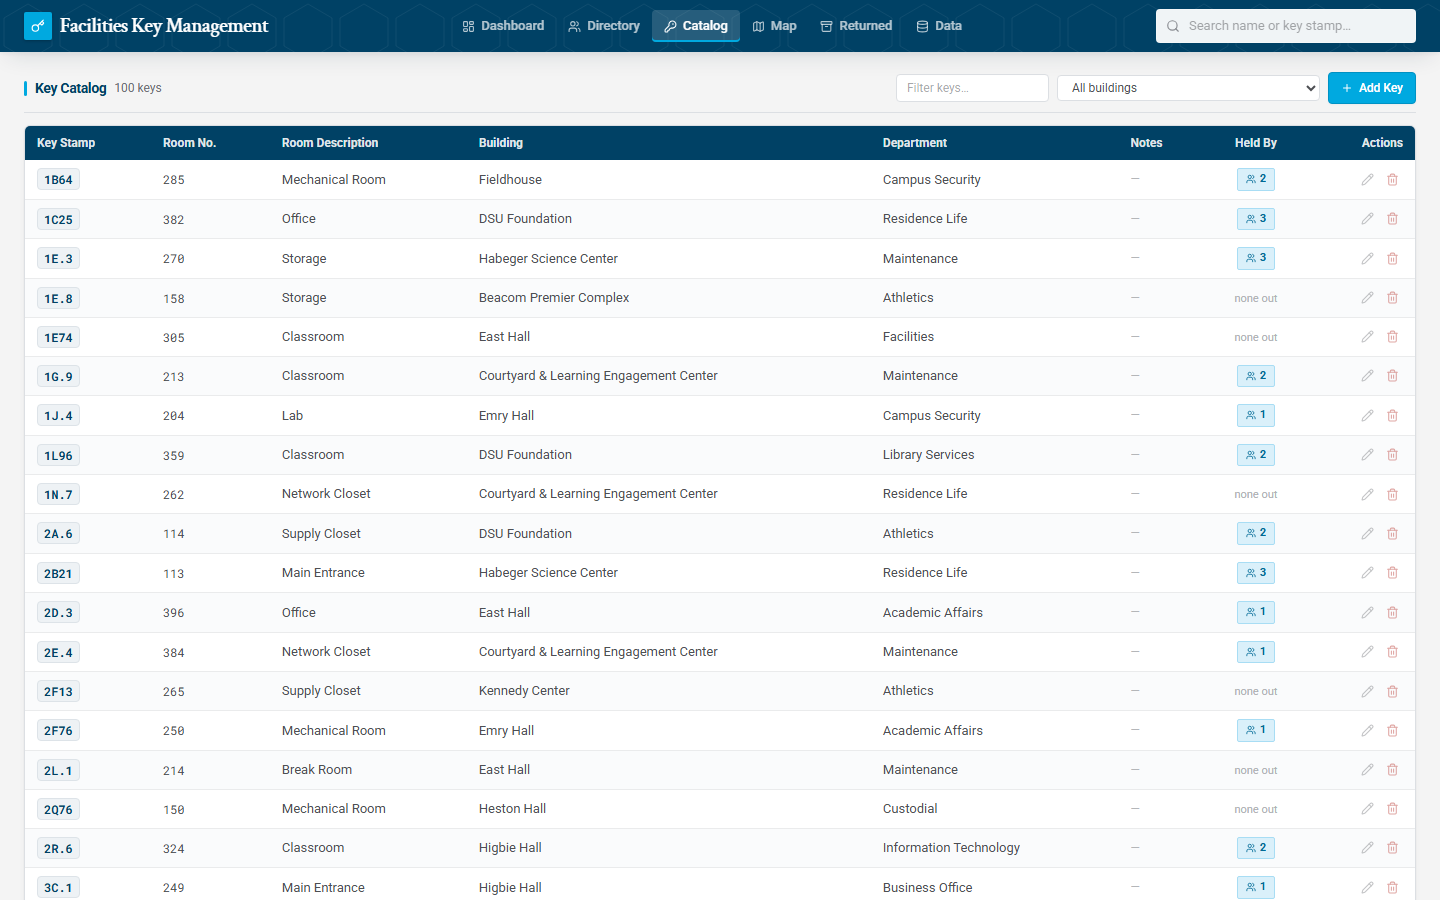
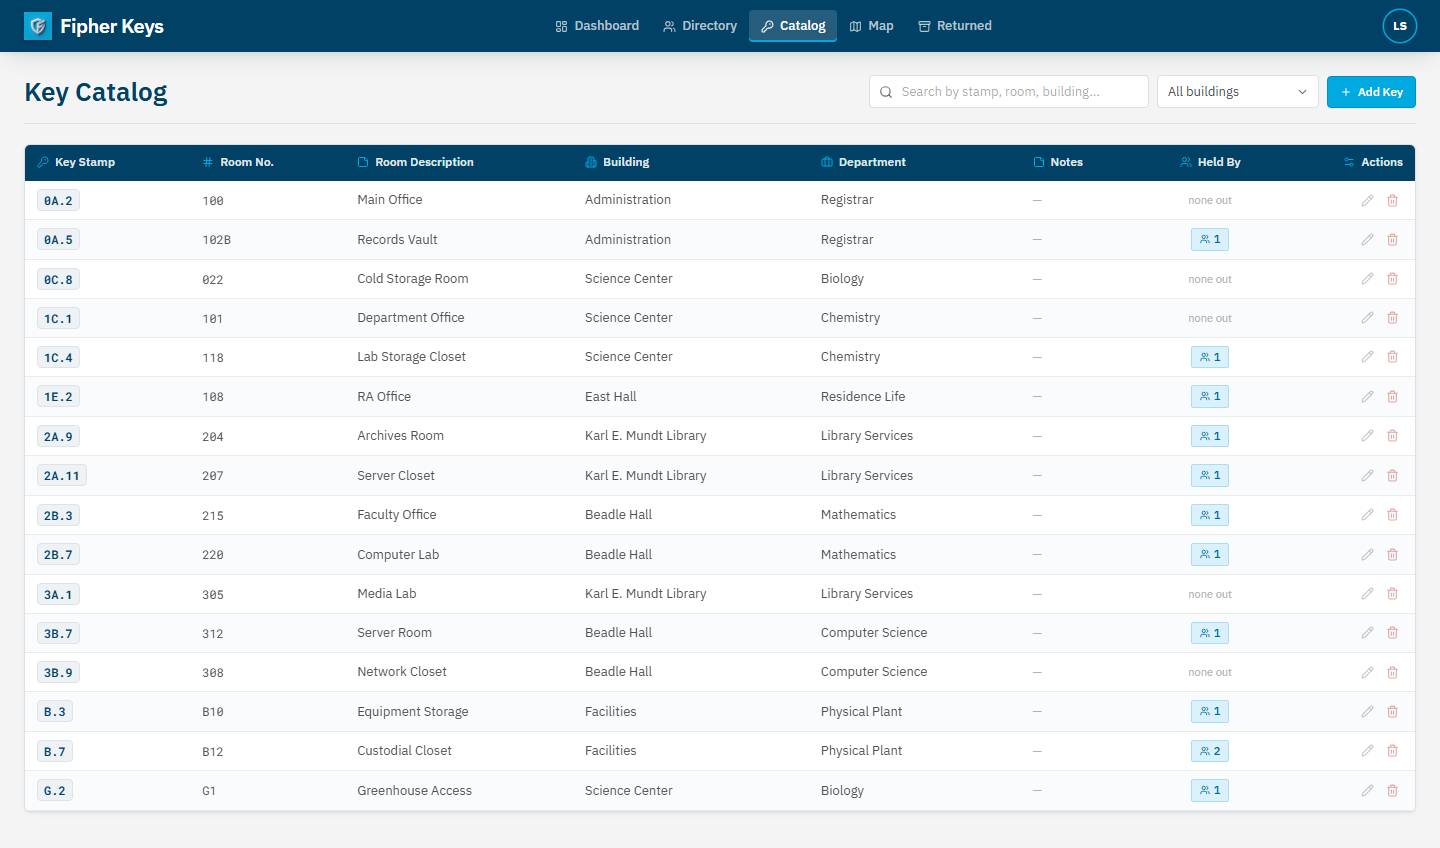
Update README and screenshots to reflect current app
- Refresh dashboard/directory/catalog/map/person/returned screenshots
- Add landing page, login page, issue-key, return-key, add-person, and
  add-key screenshots
- Rewrite feature descriptions: landing/login pages, organizations and
  access codes, PDF OCR upload, person categories, and the rebuilt Excel
  export format
- Update Supabase setup steps for the full migration set (0001-0010)

diff --git a/README.md b/README.md
@@ -1,8 +1,8 @@
-# Facilities Key Management
+# Fipher Keys
 
 An internal tool for Facilities to keep track of physical keys — who's holding what, which building it belongs to, and when it went out or came back. It replaces the hand-maintained key spreadsheet with something searchable that also shows the whole campus on a map.
 
-By default everything runs in the browser (data lives in `localStorage`), so you can try it without any setup. Point it at a Supabase project and it becomes a shared, logged-in app backed by Postgres instead.
+By default everything runs in the browser (data lives in `localStorage`), so you can try it without any setup. Point it at a Supabase project and it becomes a shared, multi-organization app with logins, access-code self-registration, and a platform admin console.
 
 ![Dashboard](docs/screenshots/dashboard.png)
 
@@ -17,48 +17,72 @@ With no `.env` present it uses browser storage and skips the login entirely, whi
 
 ## Sample data
 
-There's a test spreadsheet at [`samples/DSU-Test-Data.xlsx`](samples/DSU-Test-Data.xlsx): 100 key checkouts spread across 60 people, using the actual DSU building names so the map has something to show. Load it from the Data tab (Import) and you'll get a populated dashboard, directory, catalog, and map to explore.
+There's a test spreadsheet at [`samples/DSU-Test-Data.xlsx`](samples/DSU-Test-Data.xlsx): 100 key checkouts spread across 60 people, using the actual DSU building names so the map has something to show. Load it from Settings → Import (or the Data page in local mode) and you'll get a populated dashboard, directory, catalog, and map to explore.
 
 Importing replaces whatever's currently stored, so don't run it against real data you want to keep.
 
 ## What's in it
 
-**Dashboard.** The first thing you land on. It leads with how many keys are out right now, a few supporting counts (holders, catalog size, buildings, returned), and a search box. The Issue Key and Return Key buttons are here, and below that a Recent Activity feed of the latest checkouts and returns. Everything links through to the person or key it mentions.
+**Landing page.** A public marketing page at `/landing` — the pitch, a live-styled screenshot stack, a features grid, a walkthrough of the core workflows, and a contact form that routes straight into requesting an access code for your organization.
 
-**Map.** The campus map with a marker on each building. Buildings that currently have keys out show a count; hovering highlights the outline, and clicking opens the list of keys assigned there. The panel on the right ranks buildings by how many keys are out — hover a row and it lights up on the map. You can pan, zoom, and search from here too.
+![Landing page](docs/screenshots/landing.png)
+
+**Login / registration.** A full-bleed split page: sign in on the left, a preview of the product on the right. Creating an account asks for an organization access code, so only people who've been given one can join; the copy and headline change depending on whether you're signing in or registering.
+
+![Login page](docs/screenshots/login.png)
+
+**Dashboard.** The first thing you land on after signing in. It leads with how many keys are out right now, a few supporting counts (holders, catalog size, buildings, returned — each one click-through to that page), and a search box. Issue Key and Return Key are right here, plus a two-column breakdown (by building and by department) and a recent activity feed of the latest checkouts and returns.
+
+**Map.** The campus map with a marker on each building. Buildings that currently have keys out show a count; hovering highlights the outline, and clicking opens the list of keys assigned there. The panel on the right ranks buildings by how many keys are out — hover a row and it lights up on the map. You can pan, zoom, and search from here too, and (for admins) drag buildings into position.
 
 ![Campus map](docs/screenshots/map.png)
 
-**Directory and Catalog.** The Directory is one row per person; expand a row to see the keys they're holding, and sort or filter by name, department, or building. The Catalog is the same idea for keys — every distinct stamp, its room and building, and how many copies are out.
+**Directory and Catalog.** The Directory is one row per person; expand a row to see the keys they're holding, and filter by building, department, or holding-keys status. The Catalog is the same idea for keys — every distinct stamp, its room and building, who's holding it right now, and how many copies are out.
 
 ![Directory](docs/screenshots/directory.png)
 
-**Detail pages.** Click a name or a key stamp to open its page. A person's page shows their info, what they're holding now, and their history; a key's page shows who has it and who had it before. The two link back and forth, so you can follow a chain from a person to a key to whoever else holds that key.
+![Key catalog](docs/screenshots/catalog.png)
+
+**Detail pages.** Click a name or a key stamp to open its page. A person's page shows their info, what they're holding now, and their return history; a key's page shows who has it and who had it before. The two link back and forth, so you can follow a chain from a person to a key to whoever else holds that key.
 
 ![Person page](docs/screenshots/person-detail.png)
 
-**Issuing and returning.** Issuing a key is a single dialog — search for the person and the key (and create either one inline if it's new), set the date, done. Returning finds an open checkout and marks it returned with a date; it keeps the record rather than deleting it, so history stays intact. Returned keys drop out of the everyday lists into their own Returned tab.
+**Issuing and returning.** Issuing a key is a single dialog — search for the person and the key (or create either one inline if it's new, including which roster/category a new person belongs to), set the date, done. You can issue several keys to one person in the same visit, or upload a request form as a PDF and let it fill the fields in for you (OCR kicks in automatically for scanned or handwritten forms).
 
-**Excel in and out.** It reads the existing key spreadsheets directly: every sheet in the workbook, matching columns by their headings, including split First/Last name columns and the combined room column. You get a per-sheet summary before anything is written. Export gives you a workbook you can re-import later.
+![Issue Key](docs/screenshots/issue-key.png)
 
-![Data tab](docs/screenshots/data.png)
+Returning finds an open checkout by person, stamp, or room and marks it returned with a date — or upload a return form the same way. It keeps the record rather than deleting it, so history stays intact; returned keys drop out of the everyday lists into their own Returned tab.
+
+![Return Key](docs/screenshots/return-key.png)
+![Returned tab](docs/screenshots/returned.png)
+
+Adding a person or a key directly is just as quick, with type-ahead building/department fields that suggest existing values or let you add a new one on the spot.
+
+![Add Person](docs/screenshots/add-person.png)
+![Add Key](docs/screenshots/add-key.png)
+
+**Excel in and out.** It reads the existing key spreadsheets directly: every sheet in the workbook, matching columns by their headings, including split First/Last name columns and the combined room column. You get a per-sheet summary before anything is written. A person's "category" — which sheet of the original workbook they belonged to (Directory, Campus Watch, CommunityCenter, GA Forms, Sodexo, Facilities Department) — is preserved on import and editable afterward. Export rebuilds a workbook shaped exactly like the source file: the same sheets, headers, column widths, fonts, borders, and tab colors, so it drops straight back into whatever process the original spreadsheet was part of.
+
+![Settings — backup & restore](docs/screenshots/data.png)
+
+**Organizations & admin.** With Supabase configured, each account belongs to an organization, joined via an access code at registration. A platform admin console (visible only to platform admins) manages organizations, rotates access codes, and reviews or revokes accounts across every organization on the deployment.
 
 ## Supabase (optional)
 
 Skip this unless you want the data shared across people and machines with logins.
 
-1. Create a Supabase project and run the two migrations from `supabase/migrations/` (`0001_init.sql` then `0002_map_layout.sql`) in the SQL editor.
-2. Add yourself under Authentication → Users (tick *Auto Confirm User*).
+1. Create a Supabase project and run the migrations in `supabase/migrations/` **in order** (0001 through 0010) in the SQL editor.
+2. Add yourself under Authentication → Users (tick *Auto Confirm User*), or register through the app using one of the access codes seeded by migration `0005_organizations.sql`.
 3. Copy `.env.example` to `.env` and fill in your project URL and anon/publishable key.
-4. Restart the dev server. You'll get a login screen, and the data lives in Postgres with row-level security so only signed-in users can touch it.
+4. Restart the dev server. You'll get the login/registration screen, and the data lives in Postgres with row-level security so only signed-in members of an organization can touch that organization's data.
 
-The anon key is meant to be public in the frontend; what actually guards the data is RLS plus a signed-in session. `.env` is gitignored, so keep real credentials out of the repo.
+The anon key is meant to be public in the frontend; what actually guards the data is RLS plus a signed-in session tied to an organization. `.env` is gitignored, so keep real credentials out of the repo.
 
 ## How it's built
 
-React, TypeScript, and Vite, with Tailwind for styling and a small set of hand-written components instead of a component library. Excel handling is ExcelJS, loaded on demand so it doesn't weigh down the initial page. Fonts and colors follow the DSU brand.
+React, TypeScript, and Vite, with Tailwind for styling and a small set of hand-written components instead of a component library. Excel handling is ExcelJS, PDF text/OCR extraction uses pdf.js and Tesseract, all loaded on demand so they don't weigh down the initial page.
 
-Data sits behind a single `DataStore` interface (`src/lib/types.ts`) with two implementations — one for `localStorage`, one for Supabase — and the app uses whichever is configured. The model is three tables: people, keys (a stamp can have several physical copies, so a key row is the type, not the piece of metal), and assignments (one key issued to one person; no return date means it's still out).
+Data sits behind a single `DataStore` interface (`src/lib/types.ts`) with two implementations — one for `localStorage`, one for Supabase — and the app uses whichever is configured. The model is three tables: people (each with a category, for Excel round-tripping), keys (a stamp can have several physical copies, so a key row is the type, not the piece of metal), and assignments (one key issued to one person; no return date means it's still out).
 
 ```
 src/
@@ -66,13 +90,15 @@ src/
     App.tsx          shell, tabs, auth gate, dialogs
     theme.ts         brand colors + fonts
     components/      UI primitives and the create/edit dialogs
-    views/           Dashboard, Directory, Catalog, KeyMap, Login, Data, ...
+    views/           Dashboard, Directory, Catalog, KeyMap, Login, Landing,
+                      Settings, Admin, Person/Key/Group detail, ...
     map/             building positions + map drawing
   lib/
     types.ts         models + DataStore interface
     stores/          local + supabase
     excel.ts         import / export
-supabase/migrations/ schema + RLS
-public/campus-map.png
+    pdfExtraction.ts, pdfOcr.ts   PDF request/return form parsing
+supabase/migrations/ schema, RLS, organizations, admin, categories
+public/campus-map.png, landing/   map art + marketing screenshots
 samples/             sample spreadsheet
 ```
